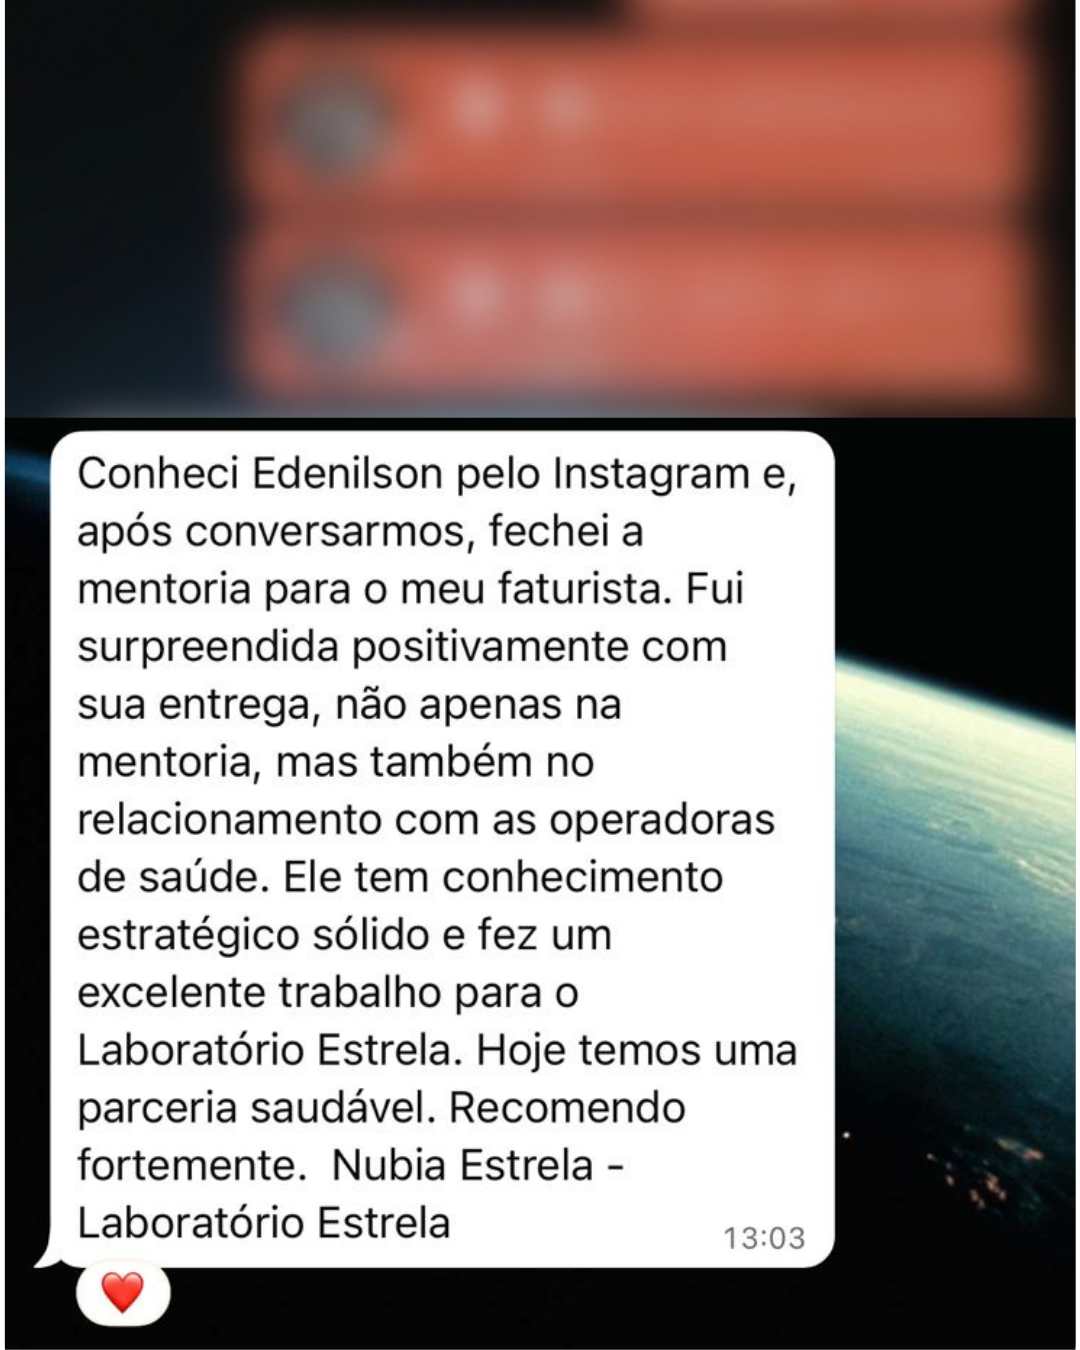
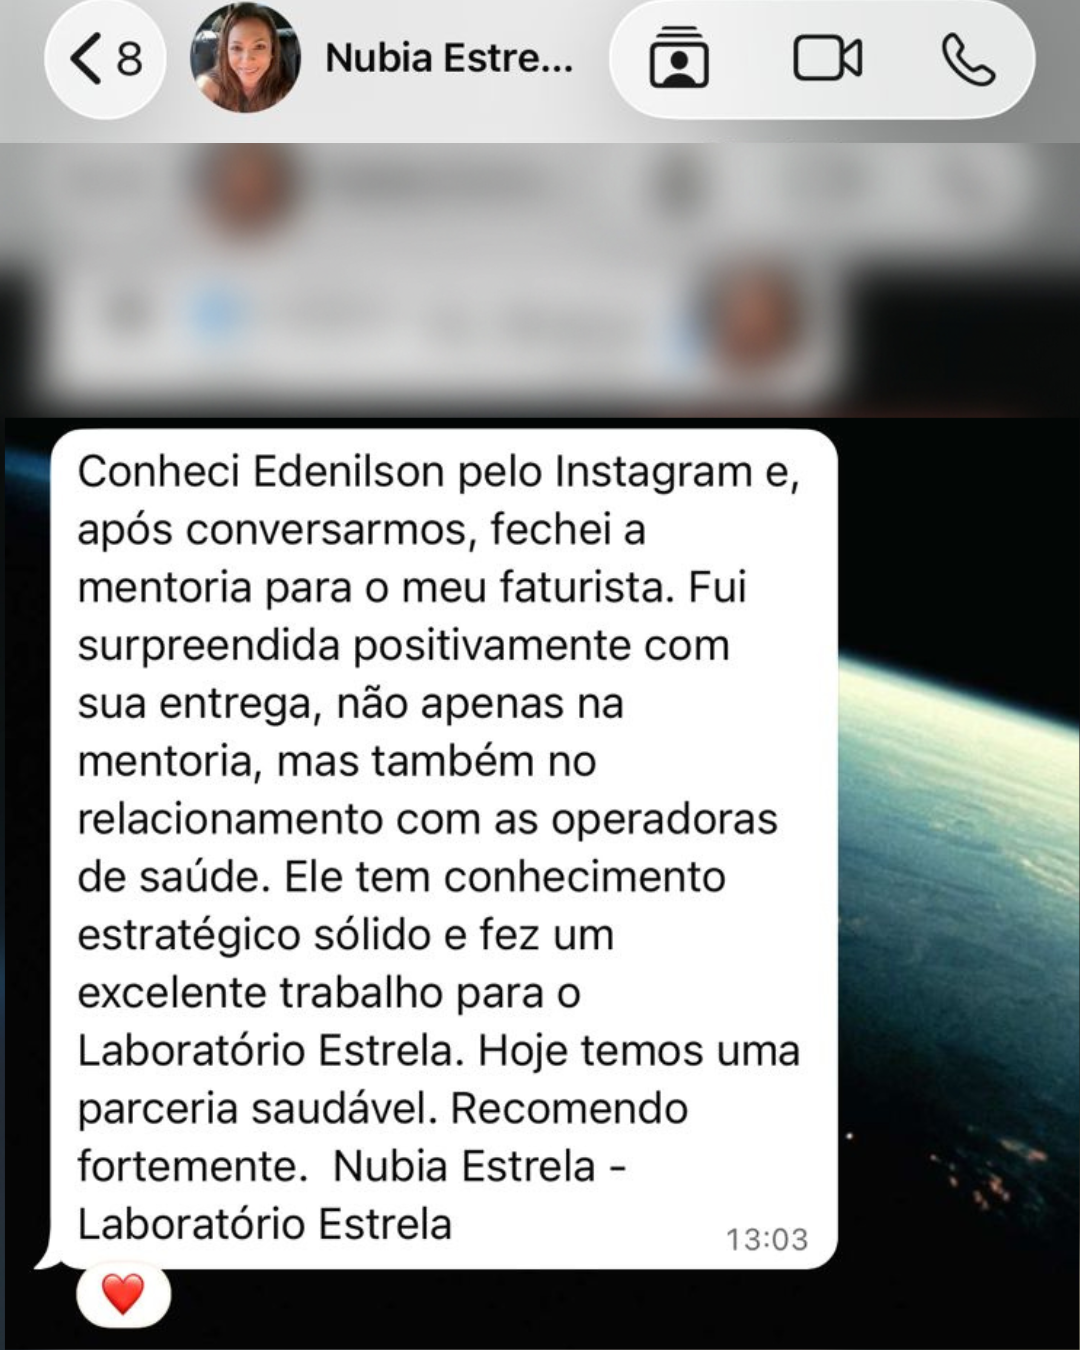
Atualiza prints de depoimentos com cabeçalho do WhatsApp
Substitui os cinco prints pelas versões que incluem a barra de topo do
WhatsApp (foto e nome do contato), no lugar do recorte anterior que
mostrava apenas o balão da mensagem. São as mesmas cinco conversas, na
mesma ordem, com as mensagens ao redor desfocadas.

Reescreve os alt de cada print para citar o contato e o detalhe que
passou a ficar visível. Dimensões seguem 1080x1350, então o carrossel,
o lightbox e os atributos width/height não precisaram de ajuste.

Claude-Session: https://claude.ai/code/session_012pB9aqtyVFeHrK23LrsRRP

diff --git a/index.html b/index.html
@@ -1353,19 +1353,19 @@ ul, ol { list-style: none; padding: 0; }
     <div class="tc-wrap" data-anim>
       <div class="tc-track">
         <figure class="testimonial-shot">
-          <img src="assets/depoimento-1.webp" alt="Print de conversa no WhatsApp: mentorada relata que já passou por outras 2 mentorias sem sucesso e que, com a mentoria de Edenilson, passou a resolver as negativas dos convênios." loading="lazy" width="1080" height="1350" />
+          <img src="assets/depoimento-1.webp" alt="Print de conversa no WhatsApp com Arlete: mentorada relata que já passou por outras 2 mentorias sem sucesso, sem rede de relacionamento nem a expertise de Edenilson, e que com a mentoria passou a desviar e resolver as negativas dos convênios." loading="lazy" width="1080" height="1350" />
         </figure>
         <figure class="testimonial-shot">
-          <img src="assets/depoimento-2.webp" alt="Print de conversa no WhatsApp: cliente relata que em aproximadamente 90 dias conseguiu respostas de convênios, negociar valores e fechar contratos." loading="lazy" width="1080" height="1350" />
+          <img src="assets/depoimento-2.webp" alt="Print de conversa no WhatsApp com Edna, psicóloga: relata que a maior dificuldade era a comunicação com os planos de saúde e que, em aproximadamente 90 dias, conseguiu respostas de convênios, negociar valores e fechar contratos." loading="lazy" width="1080" height="1350" />
         </figure>
         <figure class="testimonial-shot">
-          <img src="assets/depoimento-3.webp" alt="Print de conversa no WhatsApp: clínica relata que a mentoria foi fator determinante para o êxito na negociação de reajustes e revisão de valores com as operadoras." loading="lazy" width="1080" height="1350" />
+          <img src="assets/depoimento-3.webp" alt="Print de conversa no WhatsApp com Marcos Luiz: clínica relata que a mentoria trouxe contatos eficazes e correta instrução documental, sendo fator determinante para o êxito na negociação de reajustes e revisão de valores com as operadoras." loading="lazy" width="1080" height="1350" />
         </figure>
         <figure class="testimonial-shot">
-          <img src="assets/depoimento-4.webp" alt="Print de conversa no WhatsApp: gestor parabeniza Edenilson pelos credenciamentos conquistados, que ampliaram as oportunidades da instituição e o acesso dos pacientes aos serviços." loading="lazy" width="1080" height="1350" />
+          <img src="assets/depoimento-4.webp" alt="Print de conversa no WhatsApp com Leonardo: gestor parabeniza Edenilson pelos credenciamentos conquistados nos planos de saúde, que ampliaram as oportunidades da instituição e o acesso dos pacientes aos serviços." loading="lazy" width="1080" height="1350" />
         </figure>
         <figure class="testimonial-shot">
-          <img src="assets/depoimento-5.webp" alt="Print de conversa no WhatsApp: Nubia Estrela, do Laboratório Estrela, relata que contratou a mentoria para o faturista e destaca o conhecimento estratégico de Edenilson no relacionamento com as operadoras." loading="lazy" width="1080" height="1350" />
+          <img src="assets/depoimento-5.webp" alt="Print de conversa no WhatsApp com Nubia Estrela, do Laboratório Estrela: relata que conheceu Edenilson pelo Instagram, contratou a mentoria para o faturista e destaca o conhecimento estratégico dele no relacionamento com as operadoras." loading="lazy" width="1080" height="1350" />
         </figure>
       </div>
     </div>
